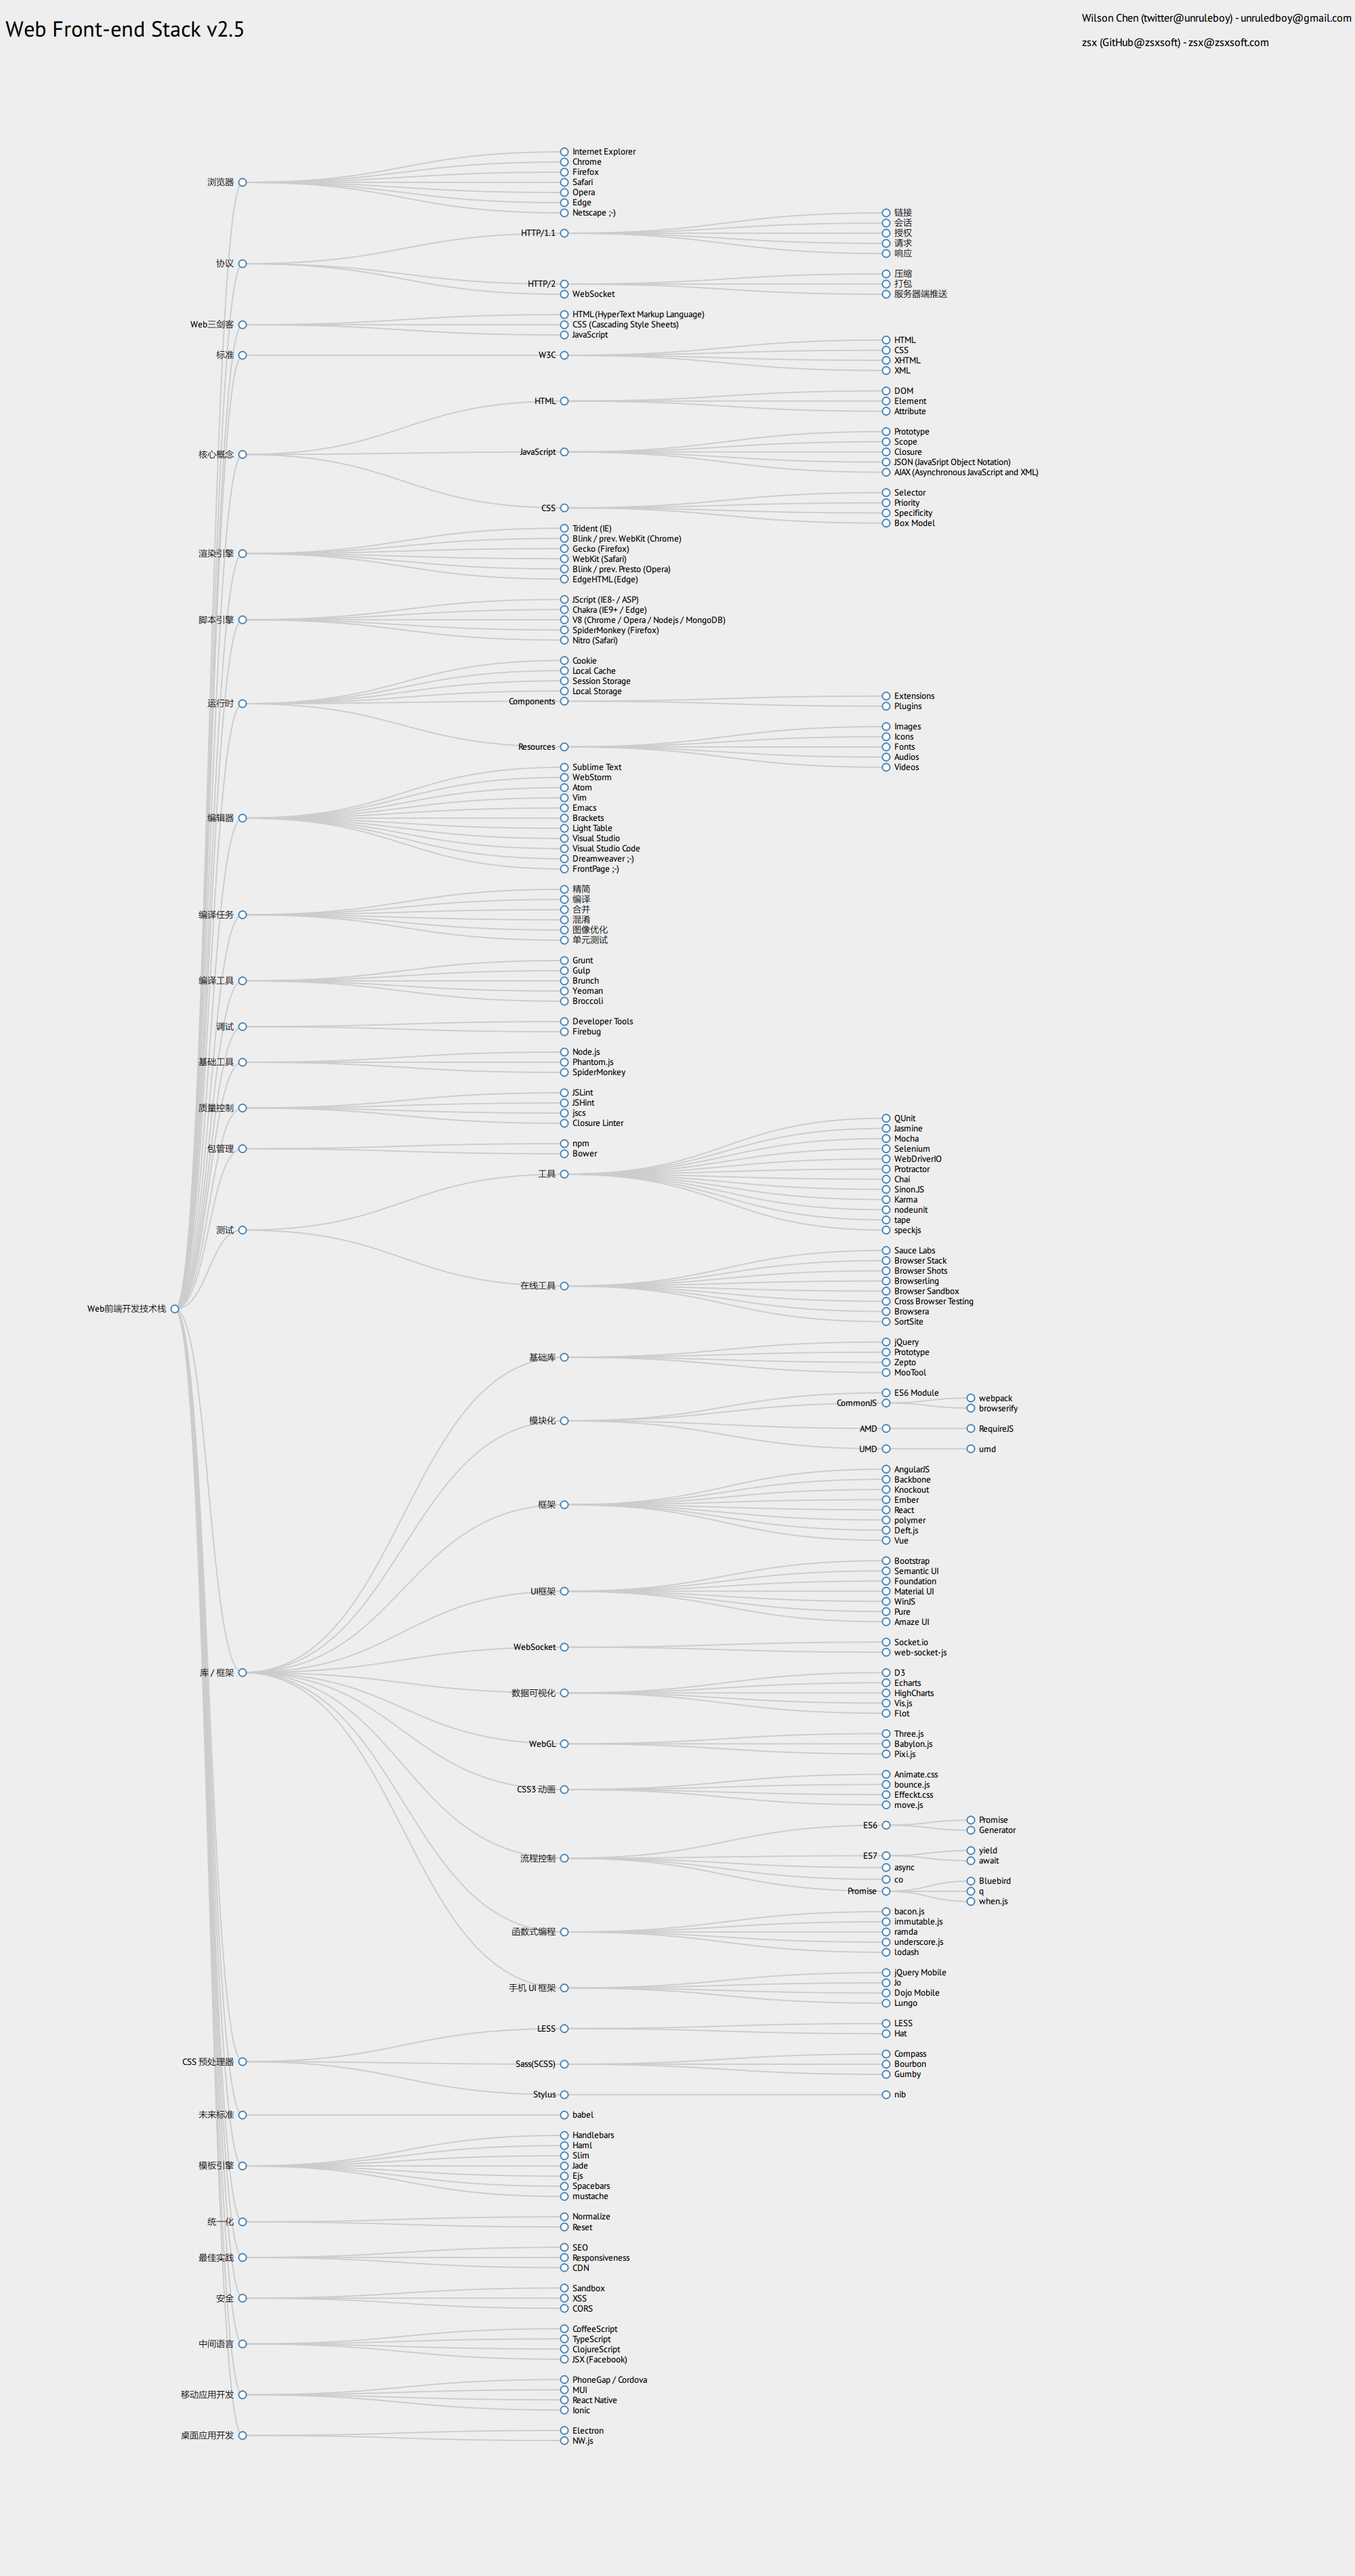
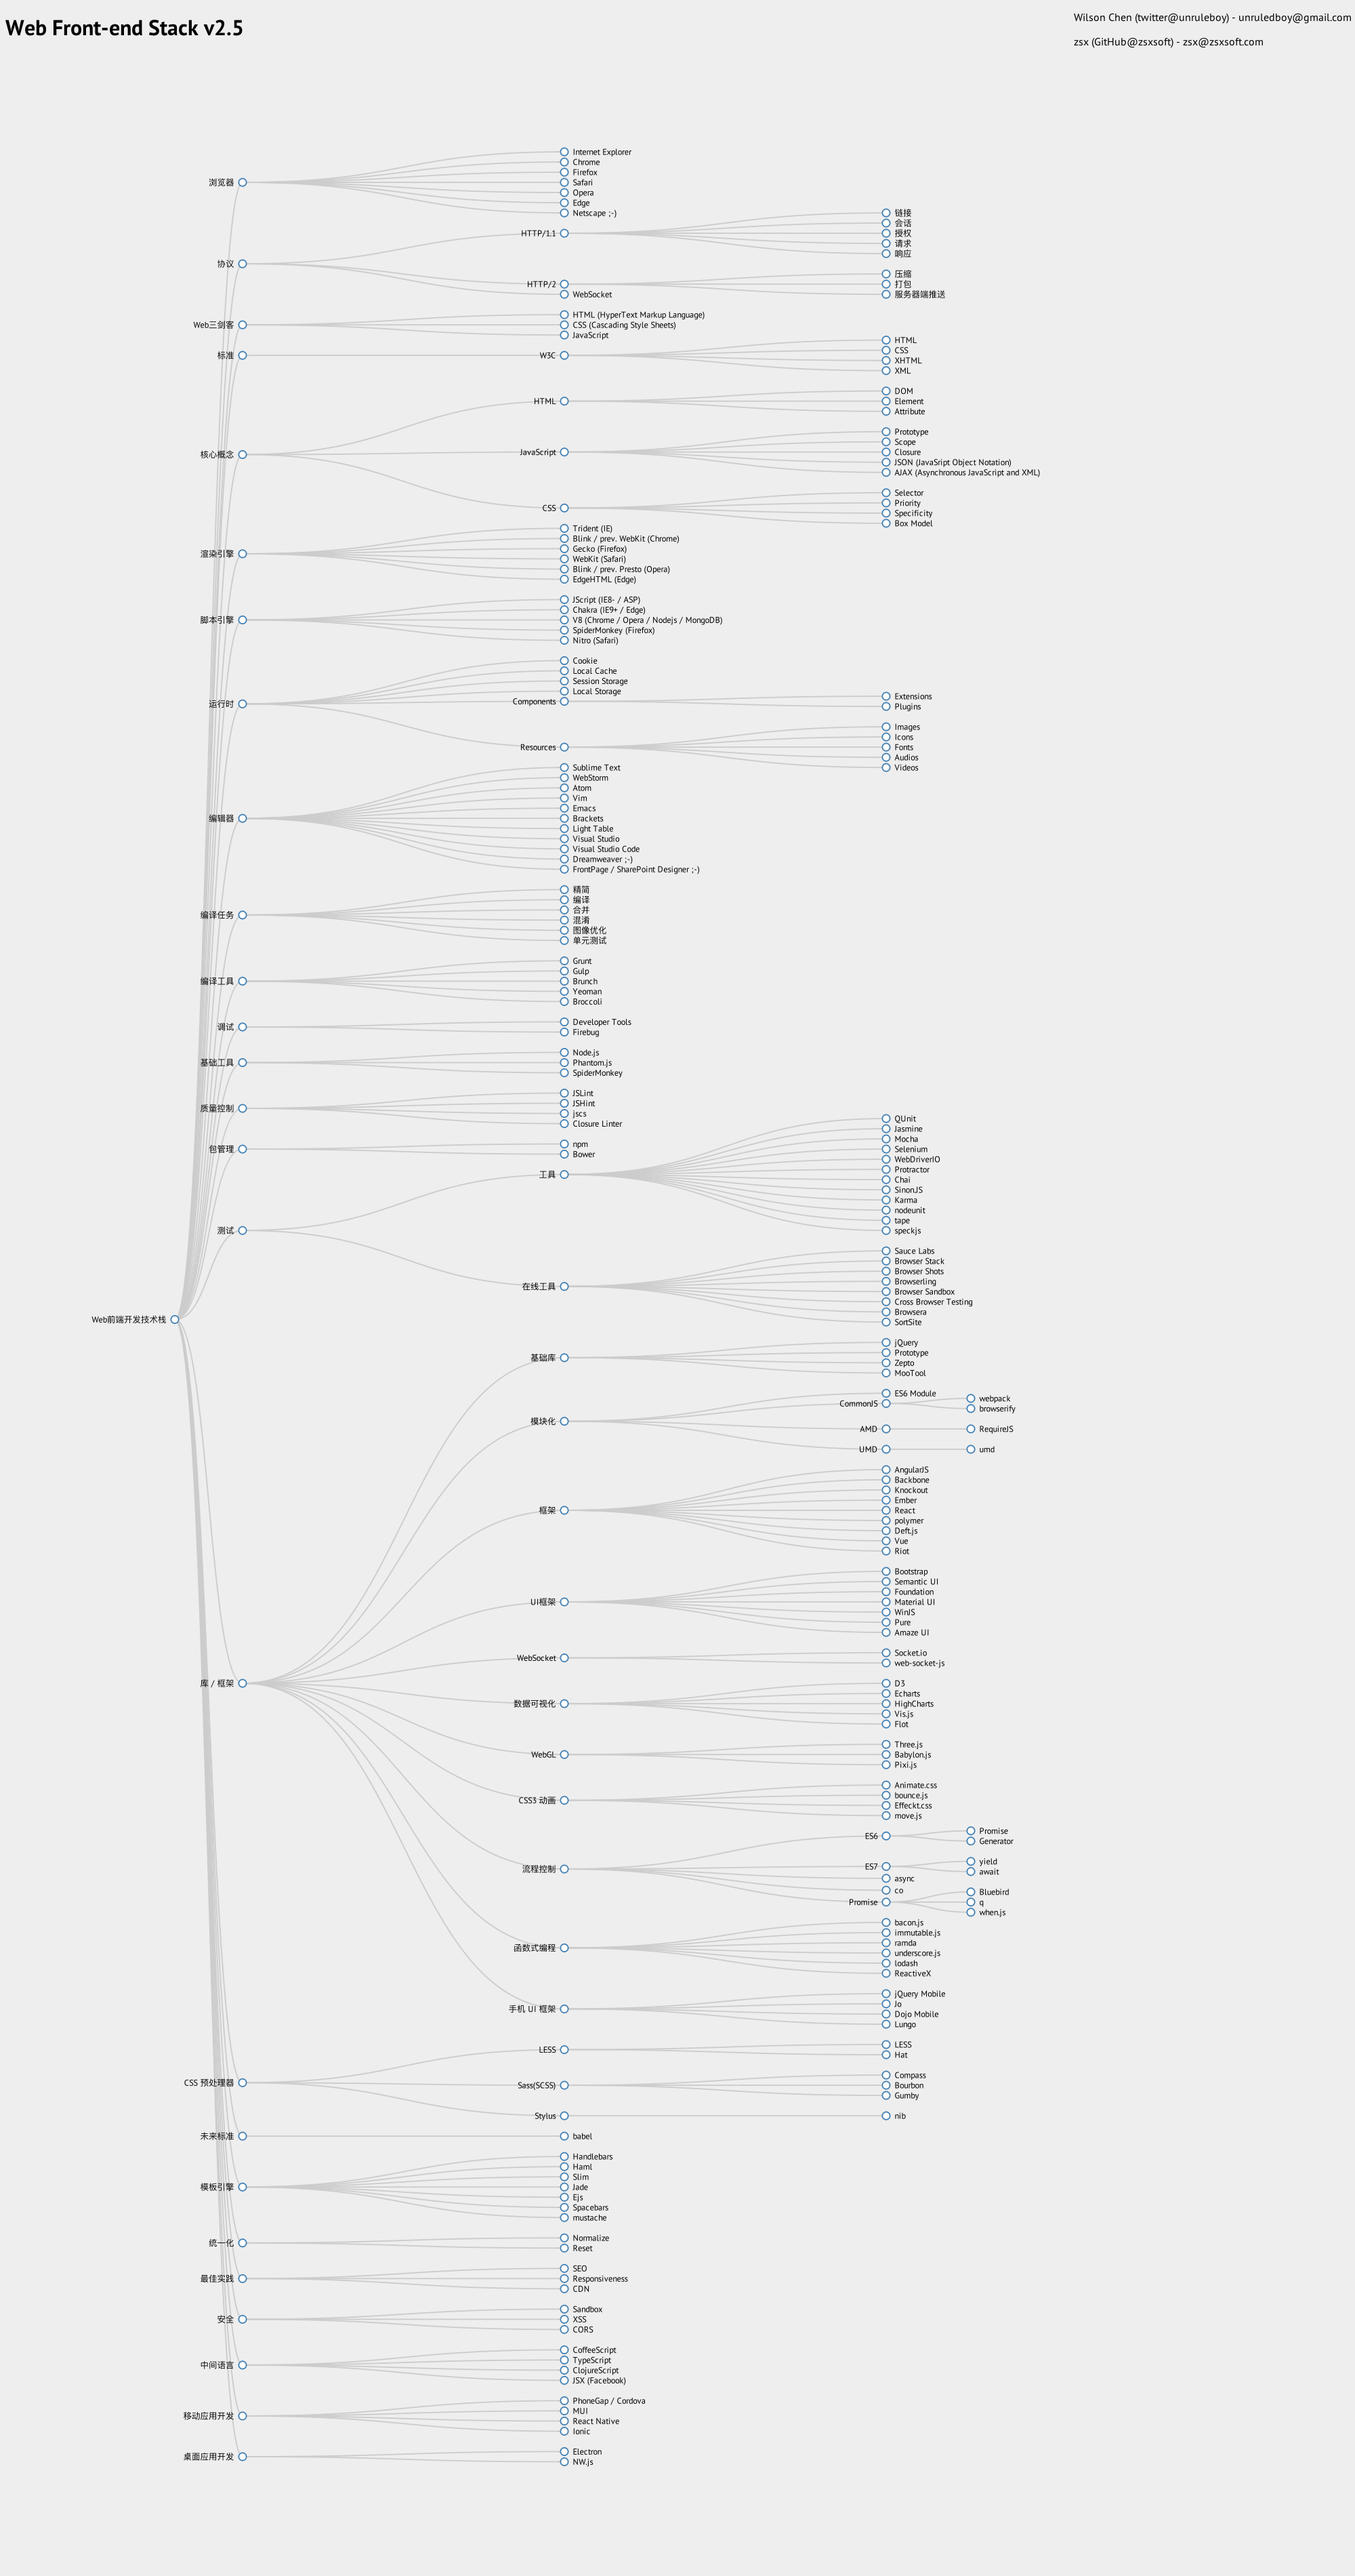
added riotjs and reactive extensions

diff --git a/README.es-es.md b/README.es-es.md
@@ -161,7 +161,7 @@ https://rawgit.com/unruledboy/WebFrontEndStack/master/ux/WebFrontEndStack.htm
 		- [Visual Studio](https://www.visualstudio.com/)
 		- [Visual Studio Code](https://code.visualstudio.com/)
 		- Dreamweaver ;-)
-		- FrontPage ;-)
+		- FrontPage / SharePoint Designer ;-)
 	- Build Tasks
 		- Minificación
 		- Compilación
@@ -237,6 +237,7 @@ https://rawgit.com/unruledboy/WebFrontEndStack/master/ux/WebFrontEndStack.htm
 			- [polymer](https://www.polymer-project.org/) [[GitHub]](https://github.com/polymer/polymer/)
 			- [Deft.js](http://deftjs.org/) [[GitHub]](https://github.com/deftjs/DeftJS/)
 			- [Vue](http://vuejs.org/) [[GitHub]](https://github.com/yyx990803/vue/)
+			- [Riot](http://riotjs.com/) [[GitHub]](https://github.com/riot/riot)
 		- UI framework
 			- [Bootstrap](http://getbootstrap.com/) [[GitHub]](https://github.com/twbs/bootstrap/)
 			- [Semantic UI](http://semantic-ui.com/) [[GitHub]](https://github.com/Semantic-Org/Semantic-UI/)
@@ -282,6 +283,7 @@ https://rawgit.com/unruledboy/WebFrontEndStack/master/ux/WebFrontEndStack.htm
 			- [ramda](http://ramdajs.com/) [[GitHub]](http://github.com/ramda/ramda)
 			- [underscore.js](http://underscorejs.org/) [[GitHub]](https://github.com/jashkenas/underscore)
 			- [lodash](https://lodash.com/) [[GitHub]](https://github.com/lodash/lodash)
+			- [ReactiveX](http://reactivex.io/) [[GitHub]](https://github.com/Reactive-Extensions/RxJS)
 		- Mobile UI
 			- [jQuery Mobile](https://jquerymobile.com/) [[GitHub]](https://github.com/jquery/jquery-mobile/)
 			- [Jo](http://joapp.com/) [[GitHub]](https://github.com/davebalmer/jo/)

diff --git a/README.zh-cn.md b/README.zh-cn.md
@@ -158,7 +158,7 @@ https://rawgit.com/unruledboy/WebFrontEndStack/master/ux/WebFrontEndStack.htm?lo
 		- [Visual Studio](https://www.visualstudio.com/)
 		- [Visual Studio Code](https://code.visualstudio.com/)
 		- Dreamweaver ;-)
-		- FrontPage ;-)
+		- FrontPage / SharePoint Designer ;-)
 	- 编译任务
 		- 精简
 		- 编译
@@ -234,6 +234,7 @@ https://rawgit.com/unruledboy/WebFrontEndStack/master/ux/WebFrontEndStack.htm?lo
 			- [polymer](https://www.polymer-project.org/) [[GitHub]](https://github.com/polymer/polymer/)
 			- [Deft.js](http://deftjs.org/) [[GitHub]](https://github.com/deftjs/DeftJS/)
 			- [Vue](http://vuejs.org/) [[GitHub]](https://github.com/yyx990803/vue/)
+			- [Riot](http://riotjs.com/) [[GitHub]](https://github.com/riot/riot)
 		- UI框架
 			- [Bootstrap](http://getbootstrap.com/) [[GitHub]](https://github.com/twbs/bootstrap/)
 			- [Semantic UI](http://semantic-ui.com/) [[GitHub]](https://github.com/Semantic-Org/Semantic-UI/)
@@ -279,6 +280,7 @@ https://rawgit.com/unruledboy/WebFrontEndStack/master/ux/WebFrontEndStack.htm?lo
 			- [ramda](http://ramdajs.com/) [[GitHub]](http://github.com/ramda/ramda)
 			- [underscore.js](http://underscorejs.org/) [[GitHub]](https://github.com/jashkenas/underscore)
 			- [lodash](https://lodash.com/) [[GitHub]](https://github.com/lodash/lodash)
+			- [ReactiveX](http://reactivex.io/) [[GitHub]](https://github.com/Reactive-Extensions/RxJS)
 		- 手机 UI 框架
 			- [jQuery Mobile](https://jquerymobile.com/) [[GitHub]](https://github.com/jquery/jquery-mobile/)
 			- [Jo](http://joapp.com/) [[GitHub]](https://github.com/davebalmer/jo/)

diff --git a/README.md b/README.md
@@ -152,7 +152,7 @@ https://rawgit.com/unruledboy/WebFrontEndStack/master/ux/WebFrontEndStack.htm
 		- [Visual Studio](https://www.visualstudio.com/)
 		- [Visual Studio Code](https://code.visualstudio.com/)
 		- Dreamweaver ;-)
-		- FrontPage ;-)
+		- FrontPage / SharePoint Designer ;-)
 	- Build Tasks
 		- Minification
 		- Compilation
@@ -228,6 +228,7 @@ https://rawgit.com/unruledboy/WebFrontEndStack/master/ux/WebFrontEndStack.htm
 			- [polymer](https://www.polymer-project.org/) [[GitHub]](https://github.com/polymer/polymer/)
 			- [Deft.js](http://deftjs.org/) [[GitHub]](https://github.com/deftjs/DeftJS/)
 			- [Vue](http://vuejs.org/) [[GitHub]](https://github.com/yyx990803/vue/)
+			- [Riot](http://riotjs.com/) [[GitHub]](https://github.com/riot/riot)
 		- UI framework
 			- [Bootstrap](http://getbootstrap.com/) [[GitHub]](https://github.com/twbs/bootstrap/)
 			- [Semantic UI](http://semantic-ui.com/) [[GitHub]](https://github.com/Semantic-Org/Semantic-UI/)
@@ -273,6 +274,7 @@ https://rawgit.com/unruledboy/WebFrontEndStack/master/ux/WebFrontEndStack.htm
 			- [ramda](http://ramdajs.com/) [[GitHub]](http://github.com/ramda/ramda)
 			- [underscore.js](http://underscorejs.org/) [[GitHub]](https://github.com/jashkenas/underscore)
 			- [lodash](https://lodash.com/) [[GitHub]](https://github.com/lodash/lodash)
+			- [ReactiveX](http://reactivex.io/) [[GitHub]](https://github.com/Reactive-Extensions/RxJS)
 		- Mobile UI
 			- [jQuery Mobile](https://jquerymobile.com/) [[GitHub]](https://github.com/jquery/jquery-mobile/)
 			- [Jo](http://joapp.com/) [[GitHub]](https://github.com/davebalmer/jo/)
